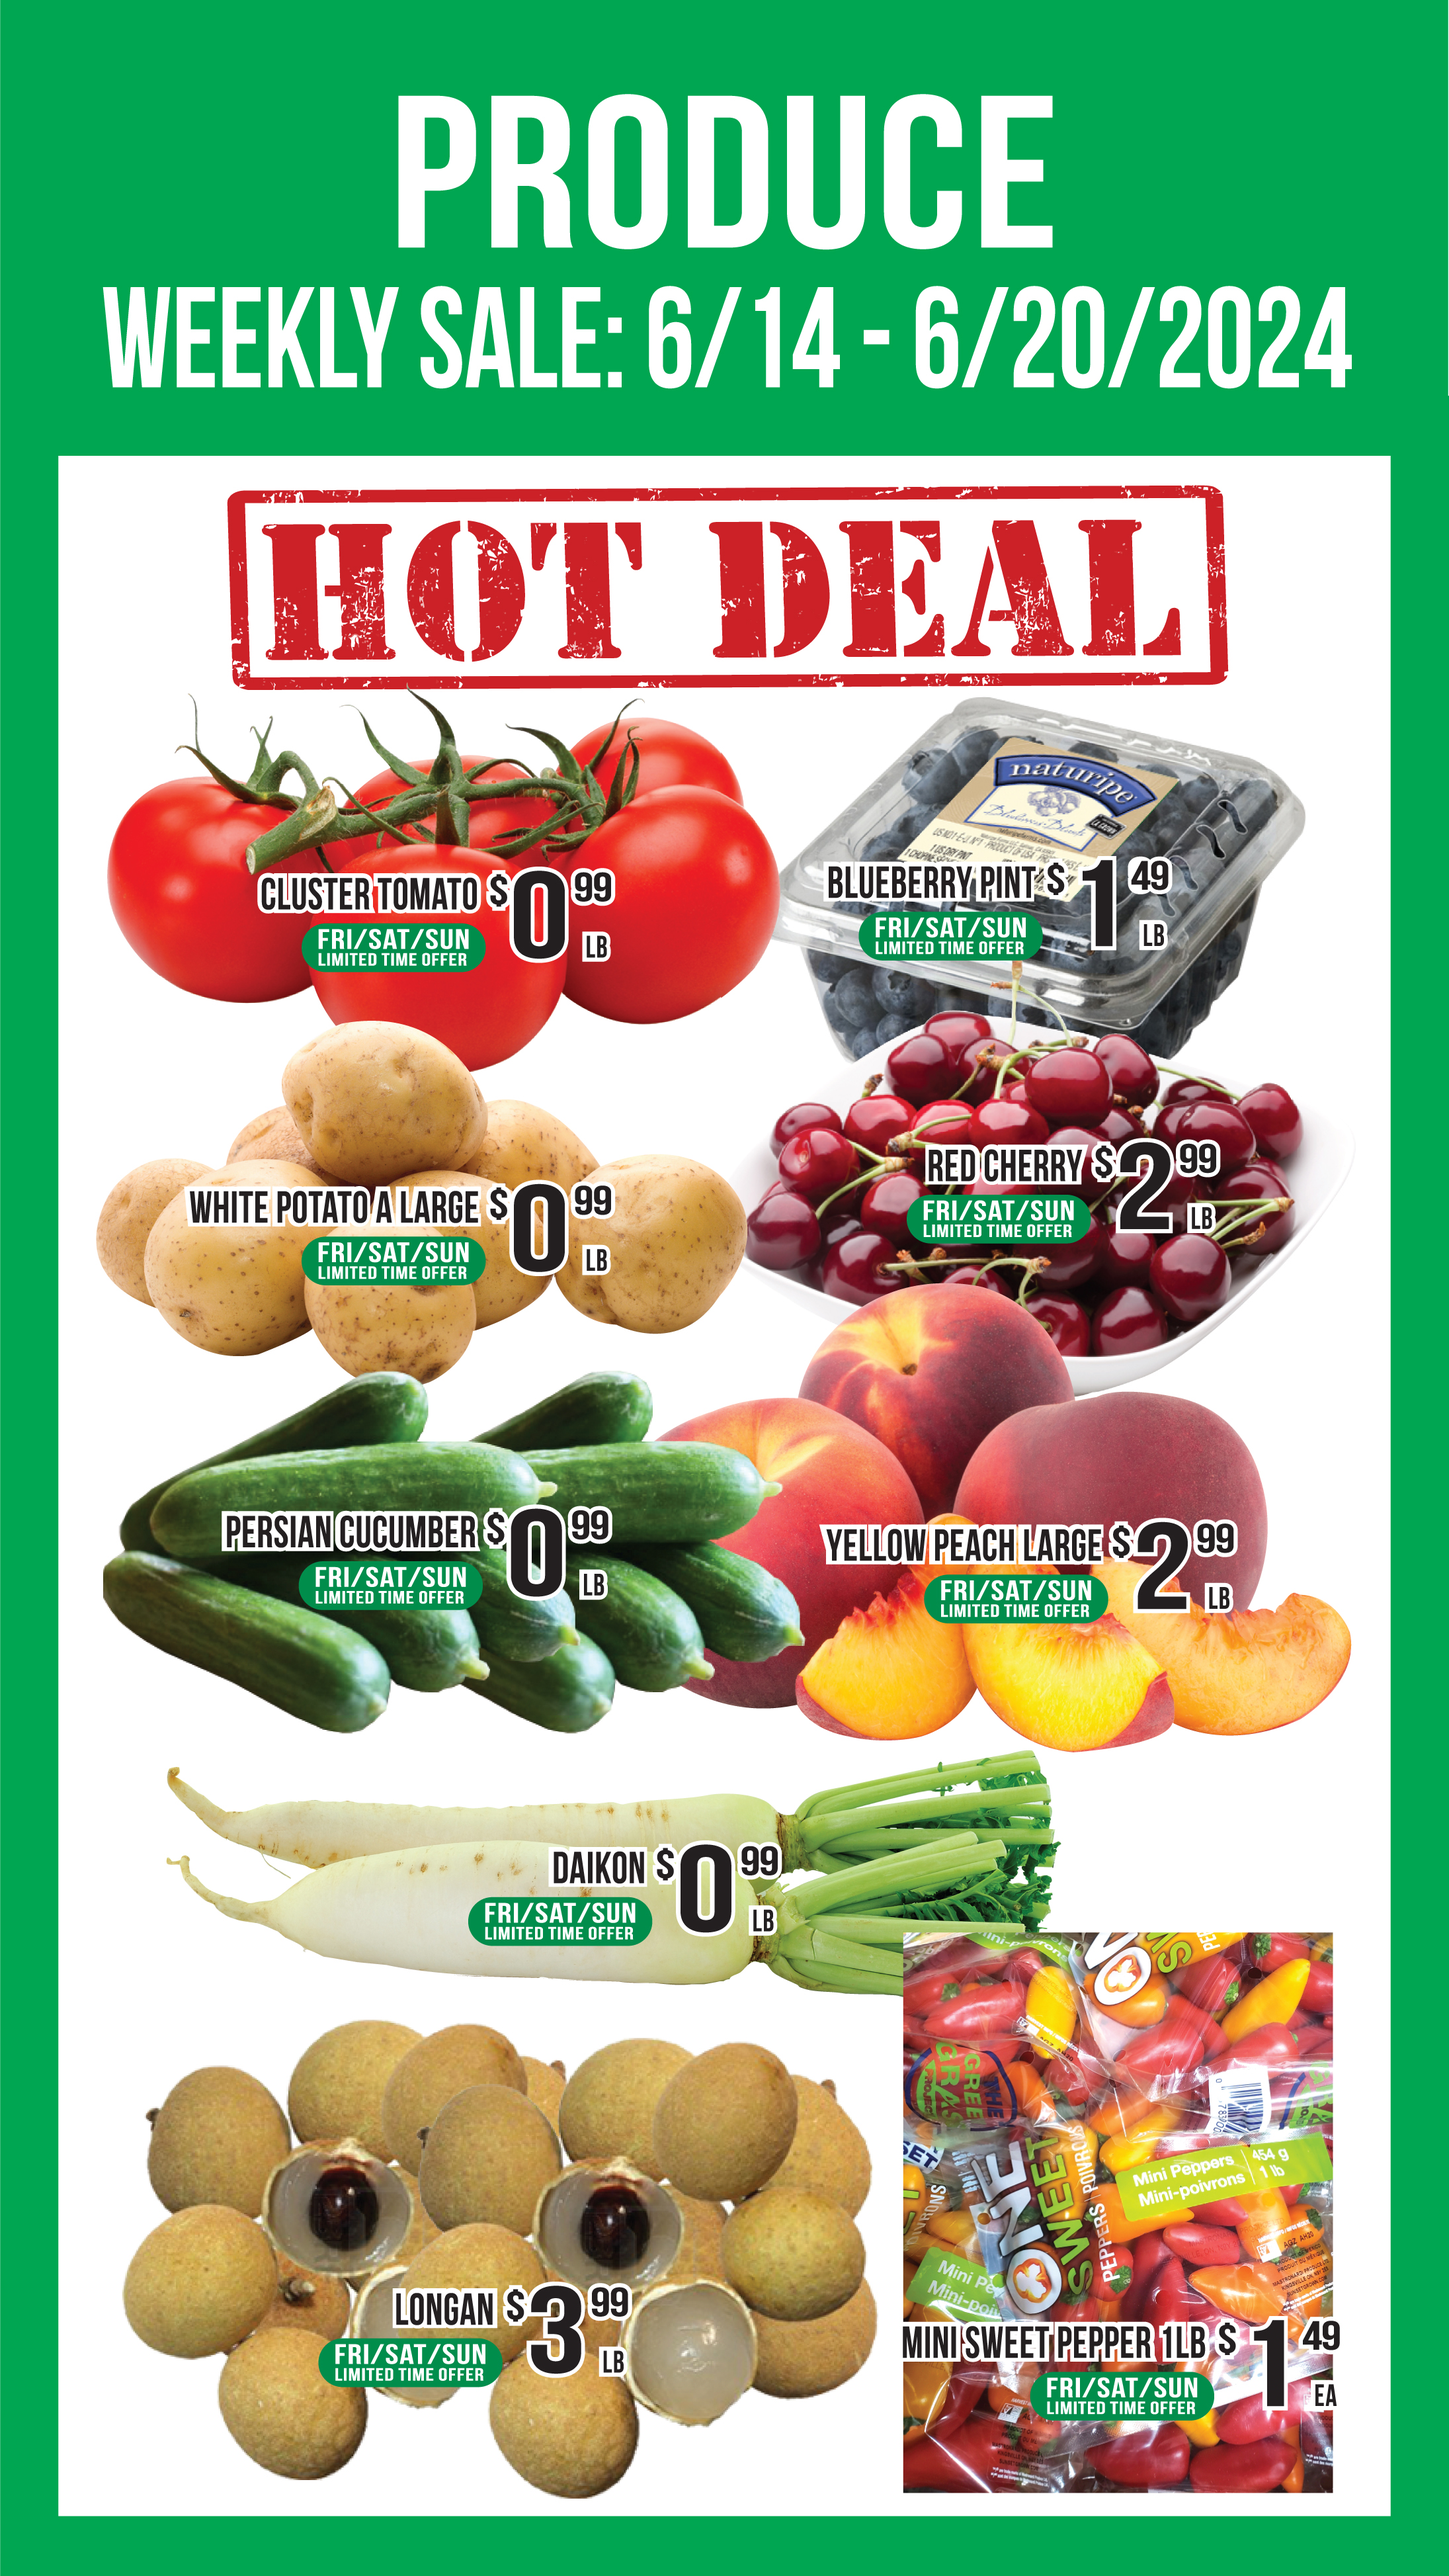
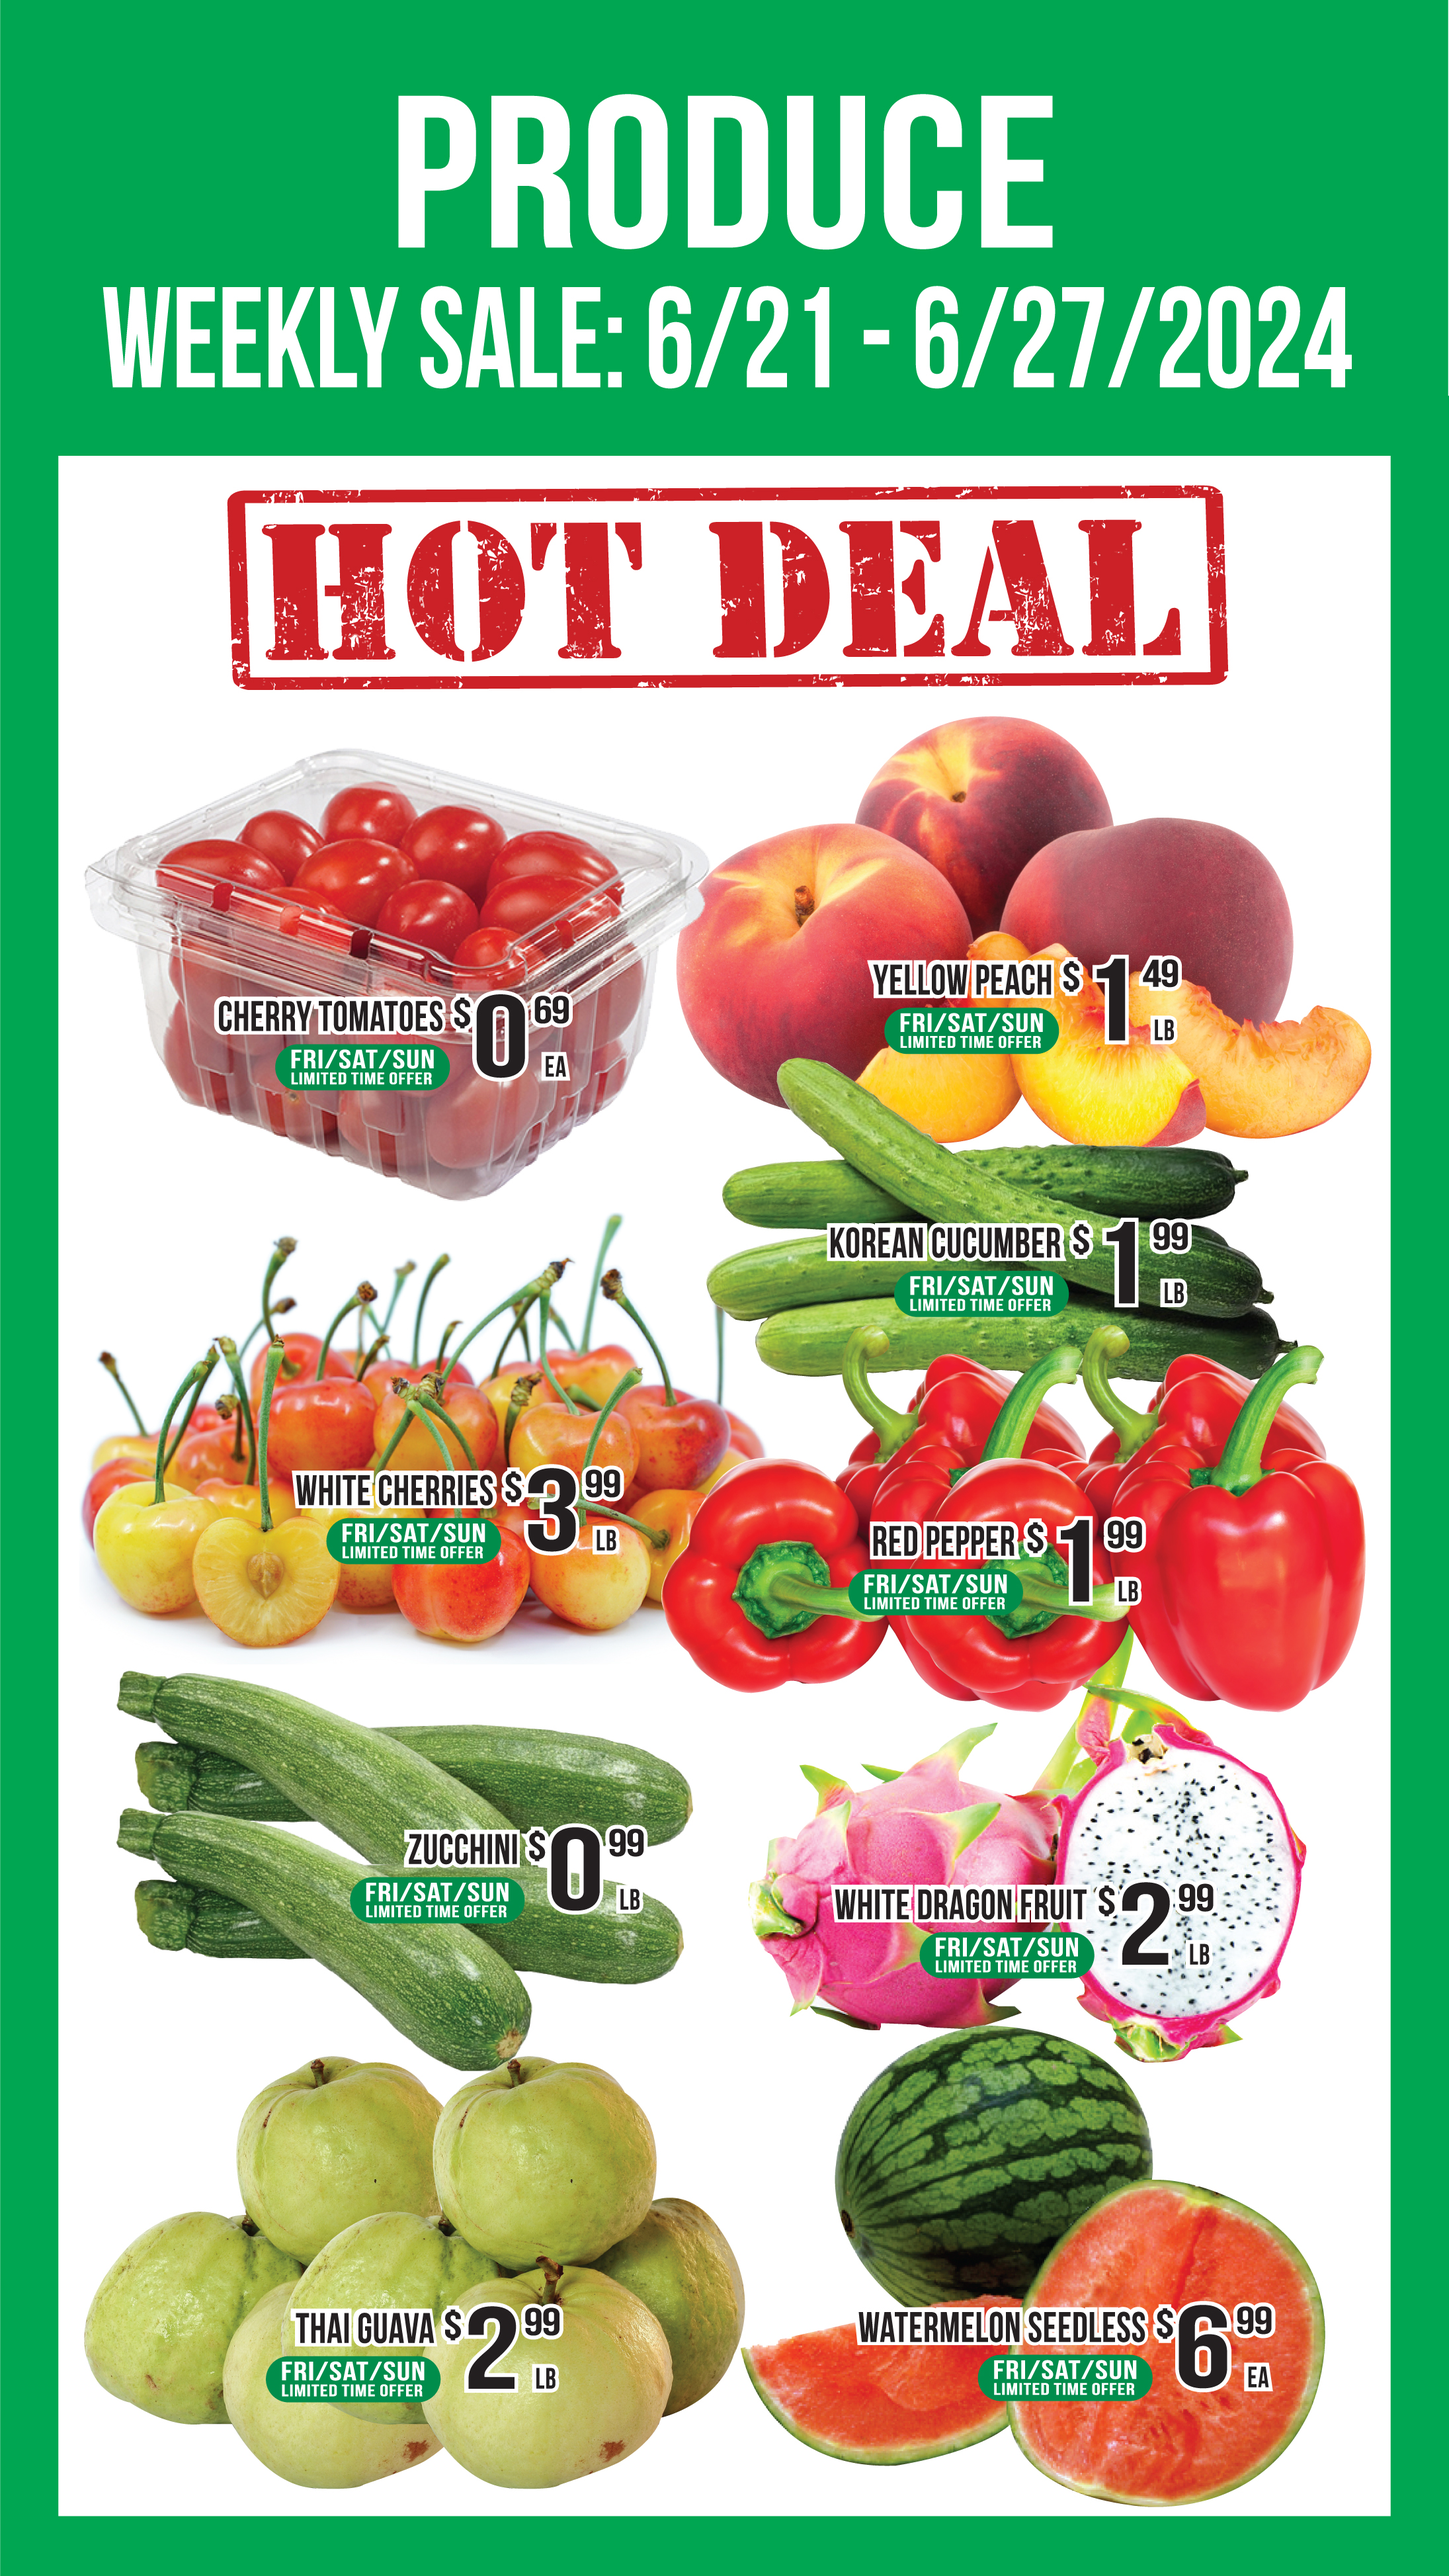
weekly deals

diff --git a/index.html b/index.html
@@ -64,16 +64,16 @@
           <img src="./public/assets/sp.jpg" class="d-block w-100 img-fluid" alt="...">
         </div> -->
         <div class="carousel-item center-carousel active">
-          <img src="./public/assets/weekly/meat.jpg?v=0614" class="img-fluid" alt="...">
+          <img src="./public/assets/weekly/meat.jpg?v=0621" class="img-fluid" alt="...">
         </div>
         <div class="carousel-item center-carousel">
-          <img src="./public/assets/weekly/veg.jpg?v=0614" class="img-fluid" alt="...">
+          <img src="./public/assets/weekly/veg.jpg?v=0621" class="img-fluid" alt="...">
         </div>
         <div class="carousel-item center-carousel">
-          <img src="./public/assets/weekly/fish.jpg?v=0614" class="img-fluid" alt="...">
+          <img src="./public/assets/weekly/fish.jpg?v=0621" class="img-fluid" alt="...">
         </div>
         <div class="carousel-item center-carousel">
-          <img src="./public/assets/weekly/grocery.jpg?v=0614" class="img-fluid" alt="...">
+          <img src="./public/assets/weekly/grocery.jpg?v=0621" class="img-fluid" alt="...">
         </div>
         <!-- <div class="carousel-item center-carousel">
           <img src="./public/assets/sale/grocery2.jpg?v=070623" class="img-fluid" alt="...">

diff --git a/deals.html b/deals.html
@@ -50,15 +50,15 @@
     <div class="row deal">
 
       <h2>English</h2>
-      <img class="img-fluid" src="./public/assets/weekly/english.jpg?v=0614">
+      <img class="img-fluid" src="./public/assets/weekly/english.jpg?v=0621">
 
       <br><br>
       <h2>Spanish</h2>
-      <img class="img-fluid" src="./public/assets/weekly/spanish.jpg?v=0614">
+      <img class="img-fluid" src="./public/assets/weekly/spanish.jpg?v=0621">
 
       <br>
       <h2>Korean</h2>
-      <img class="img-fluid" src="./public/assets/weekly/korean.jpg?v=0614">
+      <img class="img-fluid" src="./public/assets/weekly/korean.jpg?v=0621">
       <br>
       <br>
     </div>
